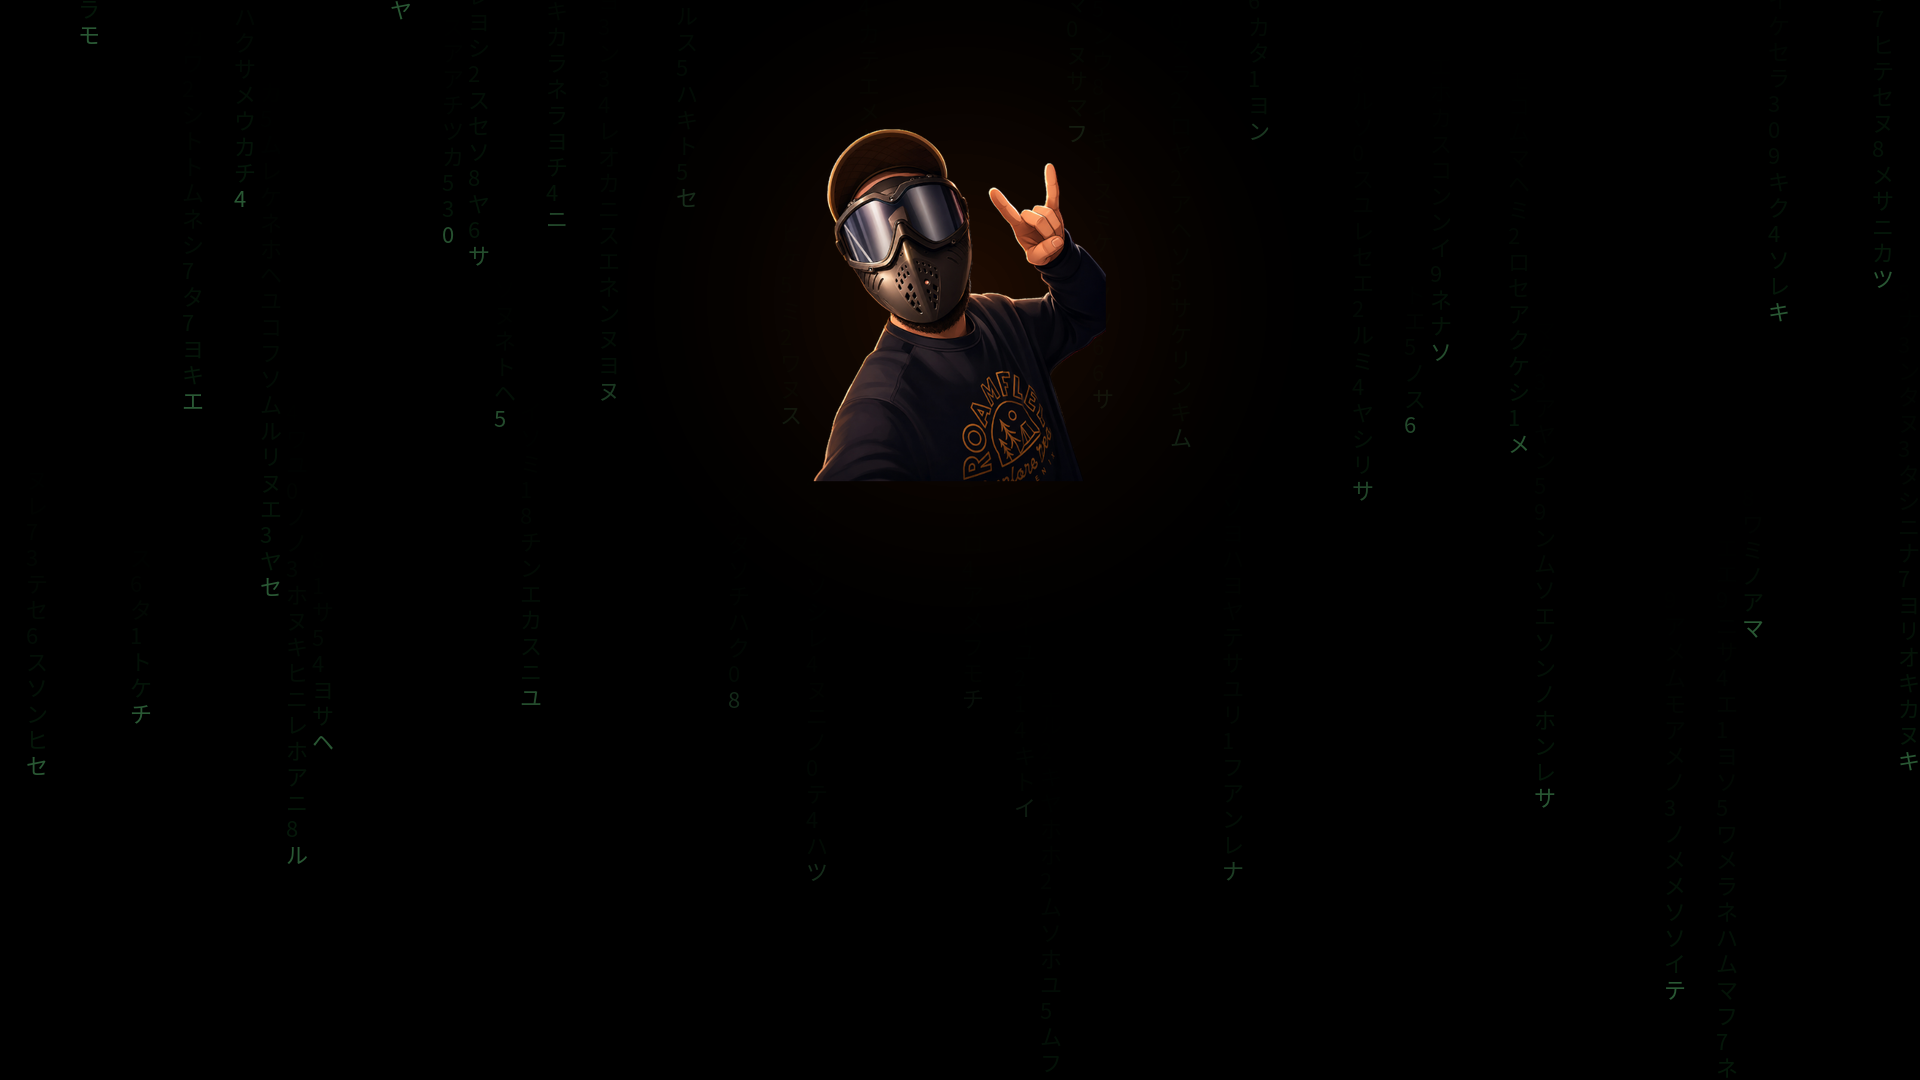
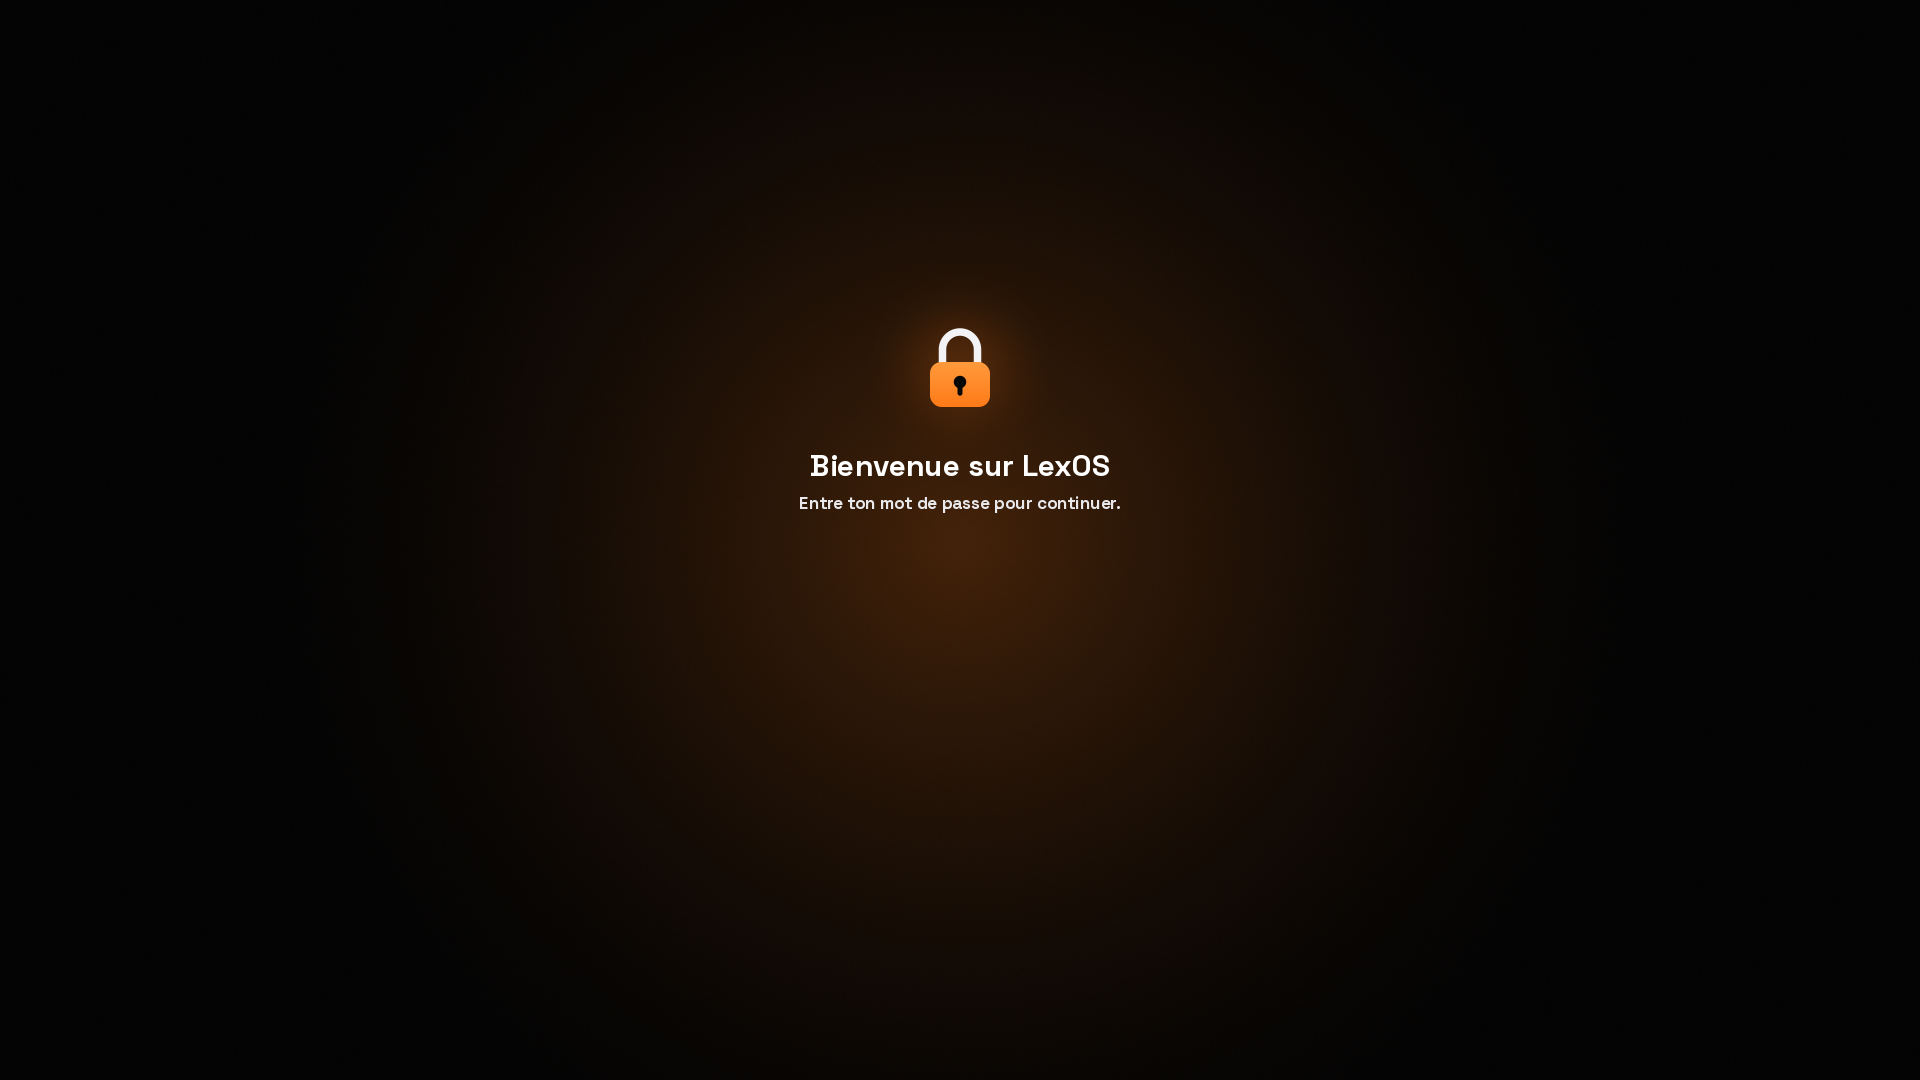
Écran de connexion : le look du cadenas du Moteur
Demande d'Alex : l'interface « quand on rentre » doit ressembler à
l'écran du cadenas de son Moteur d'interface.

- fond-connexion.png : lueur orange sur noir (teintes relevées sur le
  Moteur), avec le cadenas, « Bienvenue sur LexOS » et la phrase dessinés
  juste au-dessus de la carte.
- Carte gris très foncé, filet orange, coins à 22 px ; champs et bouton
  sur toute la largeur ; bouton en dégradé accent -> accent foncé (les
  deux bouts tiennent le contraste du grand texte).
- Greeter : carte ancrée sous le titre (50%,center 50%,start), photo
  masquée — le cadenas la remplace en tête de carte.
- Vérifié sur un vrai lightdm-gtk-greeter 2.0.9 sous Xephyr.
- Banc test_lexos_connexion.sh à jour : 90 réussis.

Claude-Session: https://claude.ai/code/session_01MzhqCatFEf7V43n4SThrXX

Changed region(s): [[0.3125, 0.1222, 0.6875, 0.8556]]

diff --git a/config/includes.chroot/usr/share/lexos/connexion.css b/config/includes.chroot/usr/share/lexos/connexion.css
@@ -428,17 +428,26 @@ menu menuitem:selected * {
     carte entrait en concurrence avec le SEUL élément qui doit attirer l'œil :
     le bouton de connexion. Un filet blanc à 8 % suffit à détacher la carte
     du fond, et l'orange reste au bouton. */
+/*  ═══ 2026-10-19 : LA CARTE DU MOTEUR ═══
+    ALEX : « faire que l'interface quand on rentre ressemble à ça » — l'écran
+    du cadenas de son Moteur d'interface (MOTEUR-INTERFACE, style.css,
+    « .verrou-carte ») : une carte gris très foncé aux coins bien ronds,
+    posée au centre d'une lueur orange, avec un filet ORANGE pâle autour.
+    Le fond (fond-connexion.png) est maintenant cette lueur, sans mascotte :
+    la carte ne flotte plus sur une image, elle EST l'image. Le filet passe
+    donc à l'orange à 35 % (le blanc à 8 % disparaissait sur la lueur), et
+    le bouton garde l'orange plein : l'œil va toujours d'abord à lui. */
 #login_window {
-	background-color: rgba(8, 8, 9, 0.94);
-	border: 1px solid rgba(255, 255, 255, 0.08);
-	border-radius: 18px;
-	padding: 12px;
+	background-color: rgba(17, 17, 18, 0.96);
+	border: 1px solid alpha(@lexos_accent, 0.35);
+	border-radius: 22px;
+	padding: 18px 16px 14px 16px;
 }
 #login_window #content_frame,
 #login_window #buttonbox_frame,
 #content_frame,
 #buttonbox_frame {
-	background-color: @lexos_noir;
+	background-color: transparent;
 	border: none;
 	box-shadow: none;
 }
@@ -485,13 +494,13 @@ menu menuitem:selected * {
     contenu du champ d'un pixel au moment où on clique dedans, et ce
     sautillement se voit. L'épaisseur ne bouge pas, la couleur seule parle. */
 #login_window entry {
-	background-color: #141416;
+	background-color: #0B0B0C;
 	background-image: none;
 	color: #FFFFFF;
 	caret-color: #FFFFFF;
 	border: 2px solid rgba(255, 255, 255, 0.10);
-	border-radius: 10px;
-	padding: 7px 10px;
+	border-radius: 12px;
+	padding: 10px 14px;
 }
 /*  LE NŒUD « text » À L'INTÉRIEUR DU CHAMP. Depuis GTK 3.20 le contenu d'un
     GtkEntry vit dans un nœud « text » à lui. Selon la version du greeter,
@@ -635,8 +644,14 @@ menu menuitem:selected * {
     en 700 franchit le seuil ; les baisser ferait tomber le bouton sous la
     norme sans que rien ne le dise. Si un jour quelqu'un veut du texte plus
     petit sur ce bouton, il doit repasser au noir. */
+/*  LE DÉGRADÉ DU MOTEUR (« Créer et entrer ») va de l'accent vers sa
+    version foncée. Jamais vers le clair : @lexos_accent_hi sous de
+    l'écriture blanche tombe à ~2,7:1, sous le seuil du grand texte. Les
+    deux bouts du dégradé tiennent chacun le seuil — mesuré par le banc sur
+    « background-color », qui reste l'accent plein et sert de repli à un
+    GTK qui refuserait le dégradé. */
 #login_window button {
-	background-image: none;
+	background-image: linear-gradient(to bottom, @lexos_accent, @lexos_accent_lo);
 	background-color: @lexos_accent;
 	color: #FFFFFF;
 	border: 1px solid @lexos_accent;
@@ -647,6 +662,7 @@ menu menuitem:selected * {
 	text-shadow: none;
 }
 #login_window button:hover {
+	background-image: none;
 	background-color: @lexos_accent_hi;
 	color: #FFFFFF;
 	border-color: @lexos_accent_hi;
@@ -658,6 +674,7 @@ menu menuitem:selected * {
     été pris. */
 #login_window button:active,
 #login_window button:checked {
+	background-image: none;
 	background-color: @lexos_accent_lo;
 	color: #FFFFFF;
 }
@@ -665,6 +682,7 @@ menu menuitem:selected * {
     distinguer d'un bouton vivant au premier coup d'oeil — le remplir
     d'orange pâle le ferait passer pour cliquable. */
 #login_window button:disabled {
+	background-image: none;
 	background-color: #0B0B0C;
 	color: alpha(@lexos_accent, 0.45);
 	border-color: alpha(@lexos_accent, 0.25);
@@ -744,4 +762,32 @@ tooltip.background {
 	background-color: @lexos_noir;
 	color: @lexos_accent;
 	border: 1px solid alpha(@lexos_accent, 0.5);
+}
+
+
+/* ===========================================================================
+   2026-10-19 — LA CARTE DU MOTEUR, DEUXIÈME MOITIÉ : LES MESURES
+   ===========================================================================
+   Vu sur un VRAI greeter (lightdm-gtk-greeter 2.0.9 sous Xephyr, pas
+   déduit) : la grille du greeter pose la photo à gauche et un petit bouton
+   « Se connecter » à droite. Le cadenas du Moteur, lui, est une colonne :
+   cadenas, titre, phrase, champ, puis un bouton sur TOUTE la largeur.
+
+   Le CSS ne peut pas réordonner une grille GTK. Ce qu'il peut faire :
+     · la photo est retirée (hide-user-image=true, hook 0410) — le cadenas,
+       le titre et la phrase sont DESSINÉS dans fond-connexion.png, juste
+       au-dessus de la carte, aux mêmes cotes que dans le Moteur ;
+     · le champ et la liste des comptes prennent une largeur fixe, et le
+       bouton la même : il remplit la carte comme « Créer et entrer ».
+   Les trois largeurs vont ensemble : un bouton plus étroit que le champ
+   redonne la grille du greeter, avec son bouton calé à droite. */
+#login_window entry,
+#login_window #user_combo {
+	min-width: 340px;
+}
+#login_window #login_button {
+	min-width: 340px;
+	min-height: 30px;
+	margin-top: 6px;
+	border-radius: 12px;
 }
